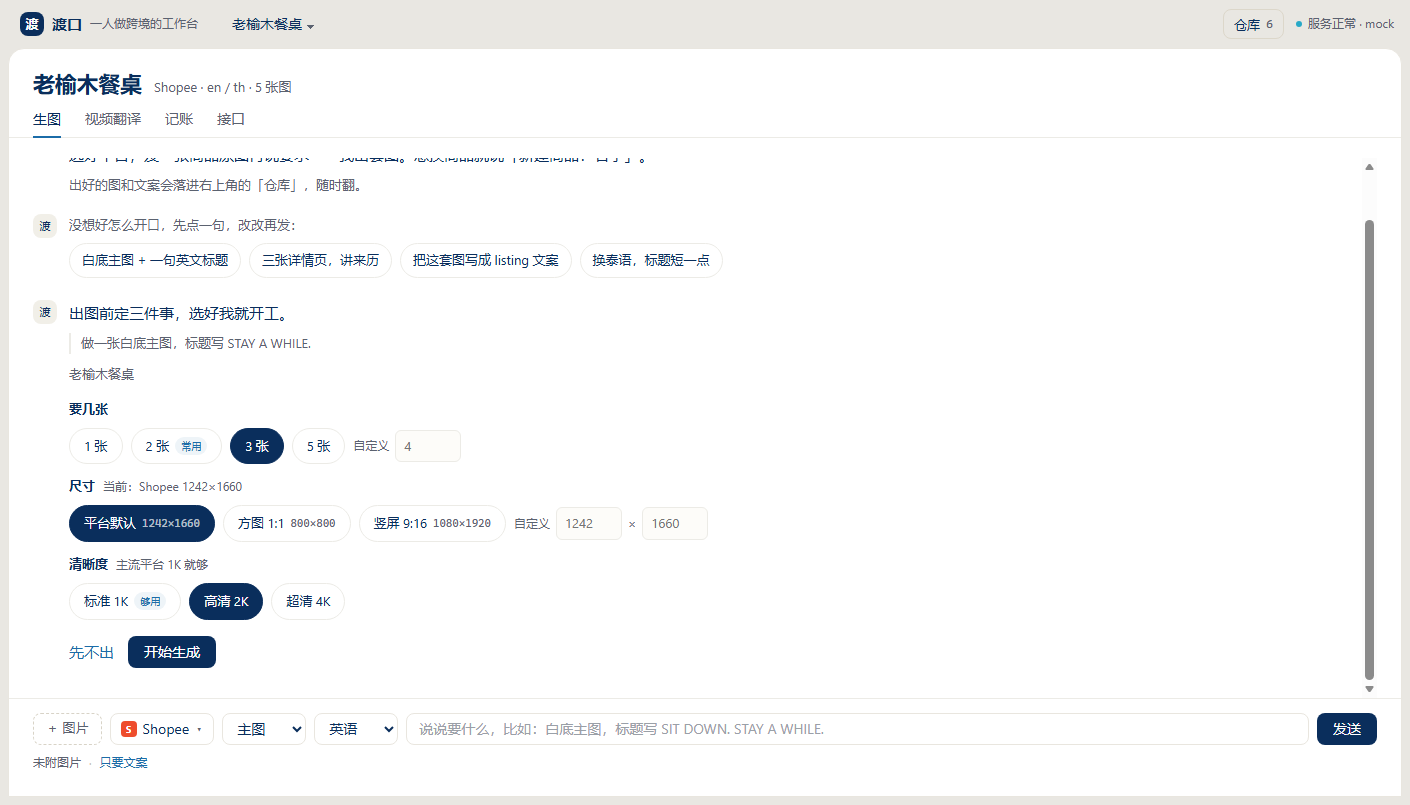
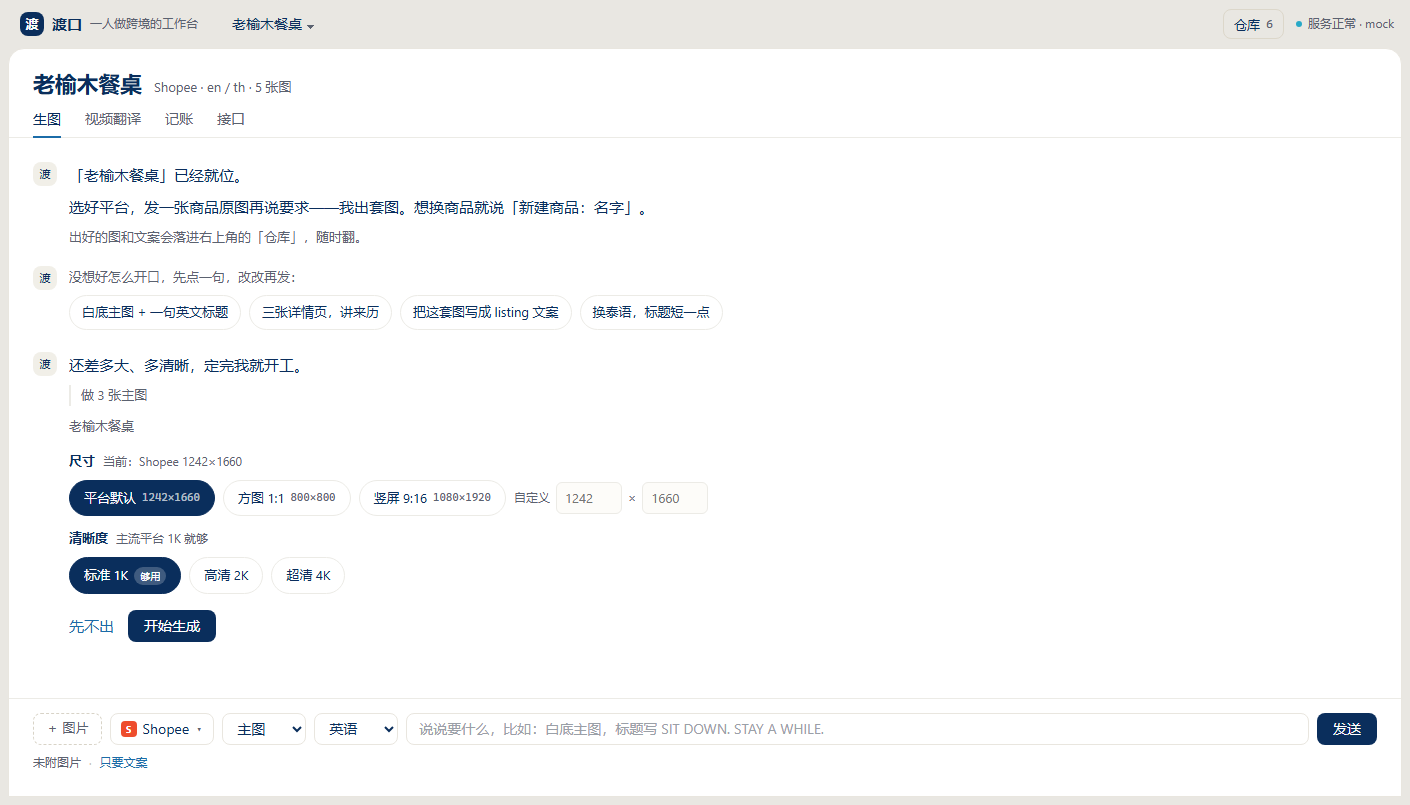
feat(image): 话里说清的参数不再追问，提问卡只补缺口

diff --git a/web/app.js b/web/app.js
@@ -342,43 +342,80 @@ function jobPromise(jobId, onTick) {
 
 /* ---------------- 出图参数：在对话区里问 ---------------- */
 
-/** 在聊天流里发一张提问卡，选完 resolve({count,width,height,quality})，取消 resolve(null) */
-function askParams({ title, thumb, ask }) {
-  const inner = $('#chat .chat-inner');
+const CN_NUM = { 一: 1, 二: 2, 两: 2, 三: 3, 四: 4, 五: 5, 六: 6 };
+
+/** 从用户这句话里读出已经说定的参数，读到的就不再问 */
+function readIntent(text) {
+  const s = String(text || '');
+  const known = {};
+  const cnt = s.match(/([1-6一二两三四五六])\s*张/);
+  if (cnt) known.count = CN_NUM[cnt[1]] || Number(cnt[1]);
+  const wh = s.match(/(\d{3,4})\s*[x×*]\s*(\d{3,4})/i);
+  if (wh) known.size = `${Number(wh[1])}x${Number(wh[2])}`;
+  else if (/竖屏|9\s*[:：]\s*16/.test(s)) known.size = '1080x1920';
+  else if (/方图|正方|1\s*[:：]\s*1/.test(s)) known.size = '800x800';
+  if (/4k|超清/i.test(s)) known.quality = '4k';
+  else if (/2k|高清/i.test(s)) known.quality = '2k';
+  else if (/1k|标准清晰|标清/.test(s)) known.quality = '1k';
+  return known;
+}
+
+/** 只问还没说定的；三件都说清了就直接 resolve，不发卡片 */
+function askParams({ title, thumb, ask, known = {} }) {
   const base = pf(state.platform);
-  const st = { count: $('#template').value === 'detail' ? 3 : 2, size: 'platform', quality: '1k' };
+  const st = {
+    count: known.count || ($('#template').value === 'detail' ? 3 : 2),
+    size: known.size || 'platform',
+    quality: known.quality || '1k',
+  };
+  const need = {
+    count: !known.count,
+    size: !known.size,
+    quality: !known.quality,
+  };
+  const resolveOpts = (s) => {
+    const [w, h] = s.size === 'platform' ? [null, null] : String(s.size).split('x').map(Number);
+    return { count: s.count, width: w, height: h, quality: s.quality };
+  };
+  if (!need.count && !need.size && !need.quality) return Promise.resolve(resolveOpts(st));
+
+  const inner = $('#chat .chat-inner');
+  const left = [need.count && '几张', need.size && '多大', need.quality && '多清晰'].filter(Boolean).join('、');
 
   const el = say(inner, 'ai', `
-    <p class="ask-q">出图前定三件事，选好我就开工。</p>
+    <p class="ask-q">还差${left}，定完我就开工。</p>
     ${ask ? `<div class="ask-quote">${esc(ask)}</div>` : ''}
     <div class="ask-sub">${esc(title || '新商品')}${thumb ? `<img class="thumb" src="${thumb}" alt="">` : ''}</div>
+    ${need.count ? `
     <div class="opt">
       <div class="opt-label">要几张</div>
       <div class="opt-row" data-k="count">
-        <button type="button" class="chip" data-v="1">1 张</button>
-        <button type="button" class="chip on" data-v="2">2 张<span class="tag">常用</span></button>
-        <button type="button" class="chip" data-v="3">3 张</button>
-        <button type="button" class="chip" data-v="5">5 张</button>
+        <button type="button" class="chip${st.count === 1 ? ' on' : ''}" data-v="1">1 张</button>
+        <button type="button" class="chip${st.count === 2 ? ' on' : ''}" data-v="2">2 张<span class="tag">常用</span></button>
+        <button type="button" class="chip${st.count === 3 ? ' on' : ''}" data-v="3">3 张</button>
+        <button type="button" class="chip${st.count === 5 ? ' on' : ''}" data-v="5">5 张</button>
         <span class="custom">自定义 <input class="in cnt" type="number" min="1" max="6" placeholder="4"></span>
       </div>
-    </div>
+    </div>` : ''}
+    ${need.size ? `
     <div class="opt">
       <div class="opt-label">尺寸<span class="opt-hint">当前：${base.name} ${base.w}×${base.h}</span></div>
       <div class="opt-row" data-k="size">
-        <button type="button" class="chip" data-v="platform">平台默认 <span class="dim">${base.w}×${base.h}</span></button>
-        <button type="button" class="chip" data-v="800x800">方图 1:1 <span class="dim">800×800</span></button>
-        <button type="button" class="chip" data-v="1080x1920">竖屏 9:16 <span class="dim">1080×1920</span></button>
+        <button type="button" class="chip${st.size === 'platform' ? ' on' : ''}" data-v="platform">平台默认 <span class="dim">${base.w}×${base.h}</span></button>
+        <button type="button" class="chip${st.size === '800x800' ? ' on' : ''}" data-v="800x800">方图 1:1 <span class="dim">800×800</span></button>
+        <button type="button" class="chip${st.size === '1080x1920' ? ' on' : ''}" data-v="1080x1920">竖屏 9:16 <span class="dim">1080×1920</span></button>
         <span class="custom">自定义 <input class="in w" type="number" min="200" max="4000" placeholder="${base.w}">×<input class="in h" type="number" min="200" max="4000" placeholder="${base.h}"></span>
       </div>
-    </div>
+    </div>` : ''}
+    ${need.quality ? `
     <div class="opt">
       <div class="opt-label">清晰度<span class="opt-hint">主流平台 1K 就够</span></div>
       <div class="opt-row" data-k="quality">
-        <button type="button" class="chip on" data-v="1k">标准 1K<span class="tag">够用</span></button>
-        <button type="button" class="chip" data-v="2k">高清 2K</button>
-        <button type="button" class="chip" data-v="4k">超清 4K</button>
+        <button type="button" class="chip${st.quality === '1k' ? ' on' : ''}" data-v="1k">标准 1K<span class="tag">够用</span></button>
+        <button type="button" class="chip${st.quality === '2k' ? ' on' : ''}" data-v="2k">高清 2K</button>
+        <button type="button" class="chip${st.quality === '4k' ? ' on' : ''}" data-v="4k">超清 4K</button>
       </div>
-    </div>
+    </div>` : ''}
     <div class="ask-foot">
       <button type="button" class="link" data-act="cancel">先不出</button>
       <button type="button" class="btn-primary" data-act="go">开始生成</button>
@@ -391,7 +428,7 @@ function askParams({ title, thumb, ask }) {
   const bubble = el.querySelector('.bubble');
 
   const sync = () => {
-    el.querySelectorAll('.opt-row[data-k="count"] .chip').forEach((c) => c.classList.toggle('on', Number(c.dataset.v) === st.count && !cntEl.value));
+    if (cntEl) el.querySelectorAll('.opt-row[data-k="count"] .chip').forEach((c) => c.classList.toggle('on', Number(c.dataset.v) === st.count && !cntEl.value));
     el.querySelectorAll('.opt-row[data-k="size"] .chip').forEach((c) => c.classList.toggle('on', c.dataset.v === st.size));
     el.querySelectorAll('.opt-row[data-k="quality"] .chip').forEach((c) => c.classList.toggle('on', c.dataset.v === st.quality));
   };
@@ -402,17 +439,15 @@ function askParams({ title, thumb, ask }) {
       if (done) return;
       done = true;
       if (!ok) { el.remove(); resolve(null); return; }
-      const p = pf(state.platform);
-      const count = Number(cntEl.value) || st.count;
-      const [w, h] = st.size === 'platform' ? [null, null]
-        : st.size === 'custom' ? [Number(wEl.value) || p.w, Number(hEl.value) || p.h]
-        : st.size.split('x').map(Number);
-      const sizeText = w ? `${w}×${h}` : `${p.name} ${p.w}×${p.h}`;
-      bubble.innerHTML = `<p class="ask-done">好，${count} 张 · ${sizeText} · ${st.quality.toUpperCase()}，开始出图。</p>`;
+      if (wEl && (wEl.value || hEl.value)) st.size = `${Number(wEl.value) || base.w}x${Number(hEl.value) || base.h}`;
+      if (cntEl && cntEl.value) st.count = Number(cntEl.value);
+      const opts = resolveOpts(st);
+      const sizeText = opts.width ? `${opts.width}×${opts.height}` : `${base.name} ${base.w}×${base.h}`;
+      bubble.innerHTML = `<p class="ask-done">好，${opts.count} 张 · ${sizeText} · ${opts.quality.toUpperCase()}，开始出图。</p>`;
       patchHistory(bubble.innerHTML);
       const scroller = el.closest('.chat');
       if (scroller) scroller.scrollTop = scroller.scrollHeight;
-      resolve({ count, width: w, height: h, quality: st.quality });
+      resolve(opts);
     };
 
     el.addEventListener('click', (ev) => {
@@ -420,16 +455,16 @@ function askParams({ title, thumb, ask }) {
       if (chip) {
         const k = chip.closest('.opt-row').dataset.k;
         st[k] = k === 'count' ? Number(chip.dataset.v) : chip.dataset.v;
-        if (k === 'count') cntEl.value = '';
-        if (k === 'size') { wEl.value = ''; hEl.value = ''; }
+        if (k === 'count' && cntEl) cntEl.value = '';
+        if (k === 'size' && wEl) { wEl.value = ''; hEl.value = ''; }
         sync();
         return;
       }
       const act = ev.target.closest('[data-act]');
       if (act) finish(act.dataset.act === 'go');
     });
-    cntEl.oninput = () => { if (cntEl.value) st.count = Number(cntEl.value); sync(); };
-    wEl.oninput = hEl.oninput = () => { if (wEl.value || hEl.value) st.size = 'custom'; sync(); };
+    if (cntEl) cntEl.oninput = () => { if (cntEl.value) st.count = Number(cntEl.value); sync(); };
+    if (wEl) wEl.oninput = hEl.oninput = () => { if (wEl.value || hEl.value) st.size = 'custom'; sync(); };
   });
 }
 
@@ -635,12 +670,14 @@ $('#chat').addEventListener('click', (ev) => {
 $('#btnSend').onclick = async () => {
   const ask = $('#ask').value.trim();
   $('#ask').value = '';
-  // 有图，或者话里明显是在要图 → 先在对话区里问清几张/多大/多清晰
+  // 有图，或者话里明显是在要图 → 话里已经说清的参数不再问，只补没说的
   if (state.lastUpload || IMAGE_WORDS.test(ask) || !ask) {
+    const known = readIntent(ask);
     const opts = await askParams({
       title: state.current ? state.current.title : '新商品',
       thumb: state.lastUploadPreview,
       ask,
+      known,
     });
     if (!opts) { $('#ask').value = ask; return; }
     doImage(ask, opts);
